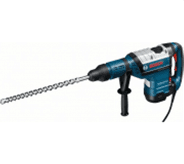
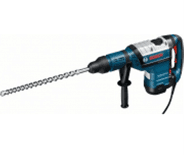
картинки

Changed region(s): [[0.0, 0.2065, 1.0, 0.7484], [0.6522, 0.671, 0.7065, 0.7226]]

diff --git a/catalog.html b/catalog.html
@@ -201,7 +201,7 @@
                     <button class="buy">Купить</button>
                     <button class="bookmark">В закладки</button>
                   </div>
-                  <img class="product" src="img/bosch-6000.png" width="144" height="128" alt="BOSCH BFG 6000">
+                  <img class="product" src="img/bosch-6000.jpg" width="154" height="138" alt="BOSCH BFG 6000">
                   <div class="card-bottom">
                     <h3 class="item-title">Перфоратор BOSCH BFG 6000</h3>
                     <span class="old-price">30500 р.</span>
@@ -214,7 +214,7 @@
                     <button class="buy">Купить</button>
                     <button class="bookmark">В закладки</button>
                   </div>
-                  <img class="product" src="img/bosch-6000.png" width="144" height="128" alt="BOSCH BFG 6000">
+                  <img class="product" src="img/bosch-6000.jpg" width="154" height="138" alt="BOSCH BFG 6000">
                   <div class="card-bottom">
                     <h3 class="item-title">Перфоратор BOSCH BFG 6000</h3>
                     <span class="old-price">30500 р.</span>
@@ -227,7 +227,7 @@
                     <button class="buy">Купить</button>
                     <button class="bookmark">В закладки</button>
                   </div>
-                  <img class="product" src="img/bosch-6000.png" width="144" height="128" alt="BOSCH BFG 6000">
+                  <img class="product" src="img/bosch-6000.jpg" width="154" height="138" alt="BOSCH BFG 6000">
                   <div class="card-bottom">
                     <h3 class="item-title">Перфоратор BOSCH BFG 6000</h3>
                     <span class="old-price">30500 р.</span>
@@ -240,7 +240,7 @@
                     <button class="buy">Купить</button>
                     <button class="bookmark">В закладки</button>
                   </div>
-                  <img class="product" src="img/bosch-3000-2000.png" width="127" height="112" alt="BOSCH BFG 3000">
+                  <img class="product" src="img/bosch-3000-2000.jpg" width="135" height="126" alt="BOSCH BFG 3000">
                   <div class="card-bottom">
                     <h3 class="item-title">Перфоратор BOSCH BFG 3000</h3>
                     <span class="old-price">22500 р.</span>
@@ -253,7 +253,7 @@
                     <button class="buy">Купить</button>
                     <button class="bookmark">В закладки</button>
                   </div>
-                  <img class="product" src="img/bosch-6000.png" width="144" height="128" alt="BOSCH BFG 6000">
+                  <img class="product" src="img/bosch-6000.jpg" width="154" height="138" alt="BOSCH BFG 6000">
                   <div class="card-bottom">
                     <h3 class="item-title">Перфоратор BOSCH BFG 6000</h3>
                     <span class="old-price">30500 р.</span>
@@ -266,7 +266,7 @@
                     <button class="buy">Купить</button>
                     <button class="bookmark">В закладки</button>
                   </div>
-                  <img class="product" src="img/bosch-3000-2000.png" width="127" height="112" alt="BOSCH BFG 2000">
+                  <img class="product" src="img/bosch-3000-2000.jpg" width="135" height="126" alt="BOSCH BFG 3000">
                   <div class="card-bottom">
                     <h3 class="item-title">Перфоратор BOSCH BFG 2000</h3>
                     <span class="old-price none">0 Р.</span>
@@ -279,7 +279,7 @@
                     <button class="buy">Купить</button>
                     <button class="bookmark">В закладки</button>
                   </div>
-                  <img class="product" src="img/bosch-3000-2000.png" width="127" height="112" alt="BOSCH BFG 3000">
+                  <img class="product" src="img/bosch-3000-2000.jpg" width="135" height="126" alt="BOSCH BFG 3000">
                   <div class="card-bottom">
                     <h3 class="item-title">Перфоратор BOSCH BFG 3000</h3>
                     <span class="old-price">22500 р.</span>
@@ -292,7 +292,7 @@
                     <button class="buy">Купить</button>
                     <button class="bookmark">В закладки</button>
                   </div>
-                  <img class="product" src="img/bosch-6000.png" width="144" height="128" alt="BOSCH BFG 6000">
+                  <img class="product" src="img/bosch-6000.jpg" width="154" height="138" alt="BOSCH BFG 6000">
                   <div class="card-bottom">
                     <h3 class="item-title">Перфоратор BOSCH BFG 6000</h3>
                     <span class="old-price">30500 р.</span>
@@ -305,7 +305,7 @@
                     <button class="buy">Купить</button>
                     <button class="bookmark">В закладки</button>
                   </div>
-                  <img class="product" src="img/bosch-3000-2000.png" width="127" height="112" alt="BOSCH BFG 2000">
+                  <img class="product" src="img/bosch-3000-2000.jpg" width="135" height="126" alt="BOSCH BFG 3000">
                   <div class="card-bottom">
                     <h3 class="item-title">Перфоратор BOSCH BFG 2000</h3>
                     <span class="old-price none">0 Р.</span>
@@ -318,7 +318,7 @@
               <a class="page current" href="#">1</a>
               <a class="page" href="#">2</a>
               <a class="page" href="#">3</a>
-              <a class="page" href="#">Следующая</a>
+              <a class="page next-page" href="#">Следующая</a>
             </div>
           </section> 
         </div>

diff --git a/index.html b/index.html
@@ -183,7 +183,7 @@
               <button class="buy">Купить</button>
               <button class="bookmark">В закладки</button>
             </div>
-            <img class="product" src="img/bosch-3000-2000.png" width="127" height="112" alt="BOSCH BFG 3000">
+            <img class="product" src="img/bosch-3000-2000.jpg" width="135" height="126" alt="BOSCH BFG 3000">
             <div class="card-bottom">
               <h3 class="item-title">Перфоратор BOSCH BFG 3000</h3>
               <span class="old-price">22500 Р.</span>
@@ -196,7 +196,7 @@
               <button class="buy">Купить</button>
               <button class="bookmark">В закладки</button>
             </div>
-            <img class="product" src="img/bosch-6000.png" width="144" height="128" alt="BOSCH BFG 6000">
+            <img class="product" src="img/bosch-6000.jpg" width="154" height="138" alt="BOSCH BFG 6000">
             <div class="card-bottom">
               <h3 class="item-title">Перфоратор BOSCH BFG 6000</h3>
               <span class="old-price">30500 Р.</span>
@@ -209,7 +209,7 @@
               <button class="buy">Купить</button>
               <button class="bookmark">В закладки</button>
             </div>
-            <img class="product" src="img/bosch-3000-2000.png" width="127" height="112" alt="BOSCH BFG 2000">
+            <img class="product" src="img/bosch-3000-2000.jpg" width="135" height="126" alt="BOSCH BFG 3000">
             <div class="card-bottom">
               <h3 class="item-title">Перфоратор BOSCH BFG 2000</h3>
               <span class="old-price none">0 Р.</span>
@@ -305,8 +305,8 @@
             <li class="tab-content" id="tab-1">
               <h3 class="tab-title">Доставка</h3>
               <p class="tab-text">
-                Мы с удовольствием доставим ваш товар прямо к вашему подъезду совершенно бесплатно! 
-                Ведь мы неплохо заработаем, поднимая его на ваш этаж!
+                Мы с удовольствием доставим ваш товар прямо<br> к вашему подъезду совершенно бесплатно!<br> 
+                Ведь мы неплохо заработаем,<br> поднимая его на ваш этаж!
               </p>
             </li>
 
@@ -322,7 +322,7 @@
             <li class="tab-content" id="tab-3">
               <h3 class="tab-title">Кредит</h3>
               <p class="tab-text">
-                Залезть в долговую яму стало проще! Кредитные консультанты придут вам на помощь.
+                Залезть в долговую яму стало проще!<br>  Кредитные консультанты придут вам на помощь.
               </p>
             </li>
           </ul>

diff --git a/css/style.css b/css/style.css
@@ -368,8 +368,9 @@ a {
 }
 
 .auth-link.guest {
-    padding-left: 30px;
-    padding-right: 10px;
+    position: relative;
+    padding-left: 47px;
+    padding-right: 3px;
     min-width: 200px;
     max-height: 44px;
 }
@@ -395,7 +396,9 @@ a {
 }
 
 .ravshan-face {
-
+    position: absolute;
+    top: 11px;
+    left: 13px;
 }
 
 .ravshan {
@@ -964,9 +967,8 @@ a {
     margin: 0;
     font-family: "PT Sans", "Arial", sans-serif;
     font-size: 13px;
-    max-width: 330px;
+    max-width: 315px;
 }
-
 
 /* Каталог, сетка  */
 
@@ -1180,7 +1182,7 @@ a {
 .range-button-1,
 .range-button-2 {
     position: absolute;
-    top: 70px%;
+    top: 40px;
     width: 20px;
     height: 20px;
     cursor: move;
@@ -1397,7 +1399,7 @@ a {
 .catalog-list {
     display: flex;
     flex-wrap: wrap;
-    margin-bottom: 28px;
+    margin-bottom: 25px;
 }
 /* Замена фото товара на кнопки, тест */
 
@@ -1462,8 +1464,6 @@ a {
     margin-bottom: auto;
     max-width: 100%;
     height: auto;
-    outline-offset: -5px;
-    outline: 5px solid rgba(255, 0, 140, 0.7);
 }
 
 .popular-item {
@@ -1731,7 +1731,7 @@ a {
 /* Нумерация страниц каталога */
 
 .pagination {
-    margin-bottom: 59px;
+    margin-bottom: 60px;
 }
 
 .page {
@@ -1740,12 +1740,18 @@ a {
     line-height: 38px;
     min-width: 38px;
     text-align: center;
+    text-transform: uppercase;
     color: var(--black);
-    padding: 11px 15px;
+    padding: 10px 15px;
     background-color: var(--white);
     border: 1px solid var(--special-filter);
     border-radius: 2px;
     box-sizing: border-box;
+    margin-right: 5px;
+}
+
+.next-page {
+    padding: 10px 31px;
 }
 
 .page:hover {
@@ -1768,7 +1774,7 @@ a {
 .specification {
     background-color: var(--basic-background);
     padding-top: 64px;
-    padding-bottom: 68px;
+    padding-bottom: 70px;
 }
 
 .specification .section-title {
